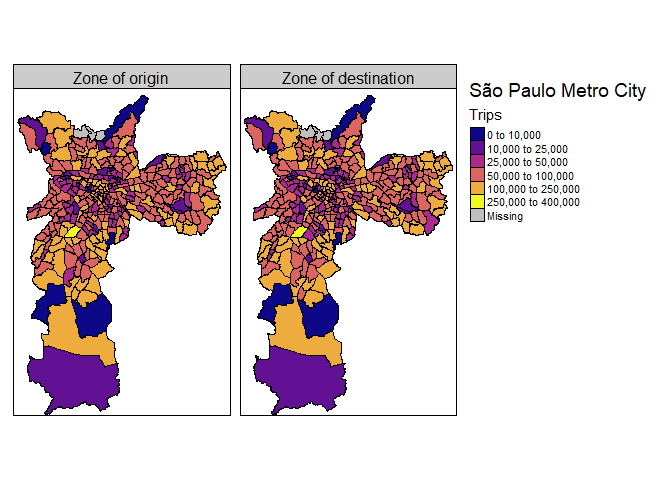
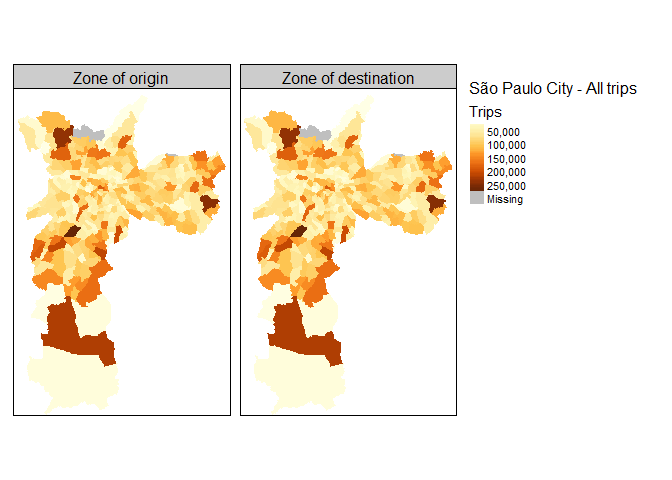
active modes and more maps

Changed region(s): [[0.3438, 0.1562, 0.9688, 0.875], [0.0312, 0.1875, 0.3438, 0.875]]

diff --git a/exploring.md b/exploring.md
@@ -42,8 +42,43 @@ first is based on the “vehicle” itself, and the other relies on the
 
 ### Basic geographic analysis
 
+Here I plot the main zones of origin and destination using the total
+number of trips – always using the survey’s expansion factor. It is
+interesting to note that there is no centrality pattern when we look at
+the main Zones of Destination. Maybe we should restrict the analysis to
+specific types of trips (e.g., commute strictly defined). I checked
+these results with the official Tables and they are the same in terms of
+the main zones of origin and destination.
+
 ![](exploring_files/figure-gfm/unnamed-chunk-7-1.png)<!-- -->
 
-Plotting only the São Paulo City.
+Plotting only the São Paulo City.There is no pattern of spatial
+centrality in destinations either.
 
 ![](exploring_files/figure-gfm/unnamed-chunk-8-1.png)<!-- -->
+
+I then remove the intrazonal trips and plot the same maps to test
+whether these patterns come from intrazonal trips only. It seems that is
+not the case.
+
+![](exploring_files/figure-gfm/unnamed-chunk-9-1.png)<!-- -->
+
+And the same conclusion applies for São Paulo City…
+
+![](exploring_files/figure-gfm/unnamed-chunk-10-1.png)<!-- -->
+
+#### Active travels and trip patterns
+
+Following the Bristol examples in Robin’s book now. But maybe we should
+zoom in the São Paulo City.
+
+    #> Creating centroids representing desire line start and end points.
+
+![](exploring_files/figure-gfm/unnamed-chunk-11-1.png)<!-- -->
+
+There are still too many zones…
+
+    #> Creating centroids representing desire line start and end points.
+    #> Legend labels were too wide. Therefore, legend.text.size has been set to 0.47. Increase legend.width (argument of tm_layout) to make the legend wider and therefore the labels larger.
+
+![](exploring_files/figure-gfm/unnamed-chunk-12-1.png)<!-- -->
